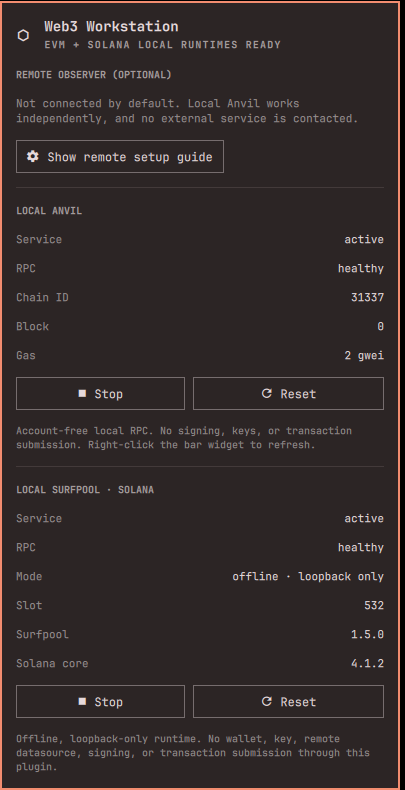
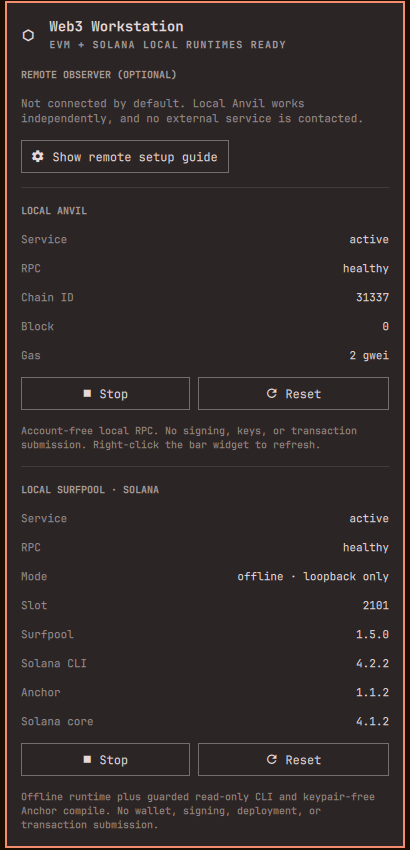
Refresh README and multichain roadmap

diff --git a/README.md b/README.md
@@ -9,8 +9,8 @@ Not another price ticker. Not a wallet. Not a signing surface.
 
 [![CI](https://github.com/LimeChain/omarchy-web3/actions/workflows/ci.yml/badge.svg)](https://github.com/LimeChain/omarchy-web3/actions/workflows/ci.yml)
 ![Omarchy](https://img.shields.io/badge/Omarchy-Quattro%204.x-d97706)
-![Profile](https://img.shields.io/badge/profile-evm--core-f59e0b)
-![Solana](https://img.shields.io/badge/solana--core-CLI%20%2B%20Anchor%20%2B%20Surfpool-7c3aed)
+![EVM Core](https://img.shields.io/badge/EVM%20CORE-READY-22c55e)
+![Solana Core](https://img.shields.io/badge/SOLANA%20CORE-READY-7c3aed)
 ![Keys](https://img.shields.io/badge/keys-none-22c55e)
 [![License](https://img.shields.io/badge/license-MIT-f97316)](LICENSE)
 
@@ -26,7 +26,7 @@ Not another price ticker. Not a wallet. Not a signing surface.
 
 | Build | Break | Run | Inspect |
 |:--|:--|:--|:--|
-| Foundry, Solidity, Node.js, Bun | Slither, Echidna, Forge fuzzing | Account-free Anvil on loopback | Blocks, gas, fees, RPC health, explorer links |
+| Foundry, Anchor, Solidity, Rust, Node.js, Bun | Slither, Echidna, Forge fuzzing | Account-free Anvil + offline Surfpool | EVM blocks/fees + Solana slots/cluster health |
 
 Everything is additive and user-scoped. Tool versions and checksums are pinned, the sample contract runs locally, and the Quattro plugin delegates to a deliberately narrow CLI surface.
 
@@ -43,7 +43,7 @@ omarchy plugin add https://github.com/LimeChain/omarchy-web3.git --enable --yes 
 
 One command. No fork. No unpinned `curl | bash`. No `sudo`. No blind `yay` bundle.
 
-Add the ready Solana profile with the same installer:
+Add the production-ready Solana profile with the same installer:
 
 ```bash
 ~/.config/omarchy/plugins/limechain.web3/install --profile solana-core
@@ -127,24 +127,42 @@ URLs containing usernames, passwords, query parameters, or fragments are rejecte
 
 <div align="center">
 
-### Multi-chain is here. More chains next.
+### Two ecosystems ready. More networks are coming.
 
-<img src="https://img.shields.io/badge/EVM%20CORE-READY-22c55e?style=for-the-badge&amp;logo=ethereum&amp;logoColor=white" alt="EVM Core — Ready">
-
-<br><br>
-
-**MULTI-CHAIN ROADMAP**
+<table>
+  <tr>
+    <th colspan="2">READY NOW</th>
+  </tr>
+  <tr>
+    <td align="center">
+      <img src="https://img.shields.io/badge/EVM%20CORE-READY-22c55e?style=for-the-badge&amp;logo=ethereum&amp;logoColor=white" alt="EVM Core — Ready"><br>
+      <sub>Foundry · Anvil · Slither · Echidna</sub>
+    </td>
+    <td align="center">
+      <img src="https://img.shields.io/badge/SOLANA%20CORE-READY-7c3aed?style=for-the-badge&amp;logo=solana&amp;logoColor=white" alt="Solana Core — Ready"><br>
+      <sub>Solana CLI · Anchor · Surfpool</sub>
+    </td>
+  </tr>
+  <tr>
+    <th colspan="2">NEXT ON THE ROADMAP</th>
+  </tr>
+  <tr>
+    <td align="center">
+      <img src="https://img.shields.io/badge/BITCOIN-NEXT-f59e0b?style=for-the-badge&amp;logo=bitcoin&amp;logoColor=white" alt="Bitcoin — Next"><br>
+      <sub>Local development and read-only inspection</sub>
+    </td>
+    <td align="center">
+      <img src="https://img.shields.io/badge/HEDERA-NEXT-111827?style=for-the-badge&amp;logo=hedera&amp;logoColor=white" alt="Hedera — Next"><br>
+      <sub>Local tooling and read-only inspection</sub>
+    </td>
+  </tr>
+</table>
 
 <br>
 
-<img src="https://img.shields.io/badge/SOLANA-CLI%20%2B%20ANCHOR%20%2B%20SURFPOOL-7c3aed?style=for-the-badge&amp;logo=solana&amp;logoColor=white" alt="Solana — CLI, Anchor and Surfpool ready">
-<img src="https://img.shields.io/badge/BITCOIN-NEXT-f59e0b?style=for-the-badge&amp;logo=bitcoin&amp;logoColor=white" alt="Bitcoin — Next">
-<img src="https://img.shields.io/badge/HEDERA-NEXT-111827?style=for-the-badge&amp;logo=hedera&amp;logoColor=white" alt="Hedera — Next">
-
-<br><br>
-
-<sub>ONE LIMECHAIN-READY STANDARD</sub><br>
-<sub>Reproducible install · Safe updates · Clean uninstall · Hardened security · Clean-ISO validation</sub>
+<strong>ONE LIMECHAIN-READY STANDARD</strong><br>
+<sub>Reproducible installation · Safe updates · Clean uninstallation · Hardened security · Clean-ISO validation</sub><br><br>
+<sub>Bitcoin and Hedera are next—not last. Additional networks will follow the same non-custodial, reproducible profile model.</sub>
 
 </div>
 
